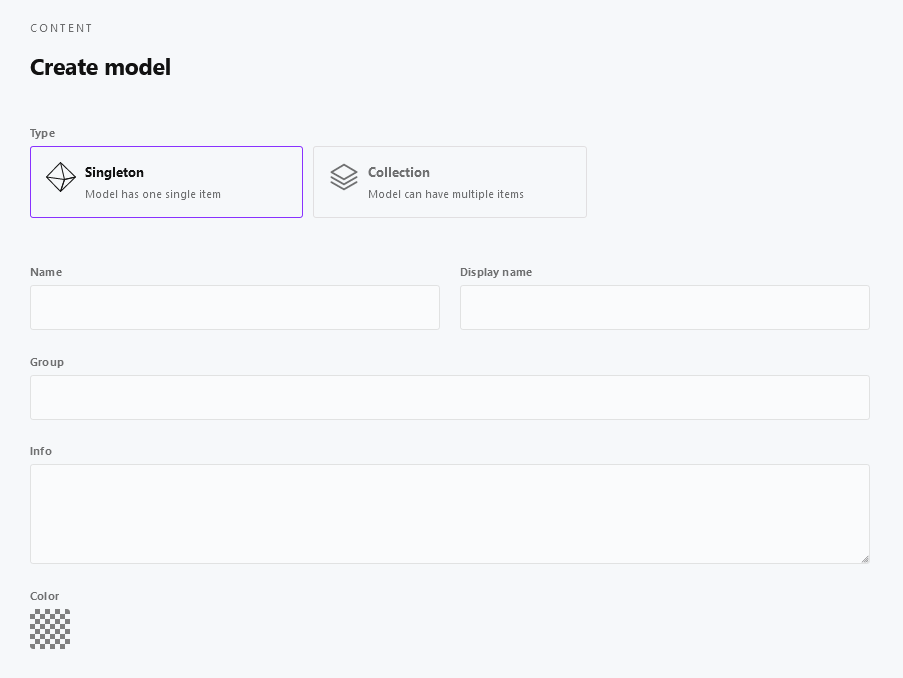
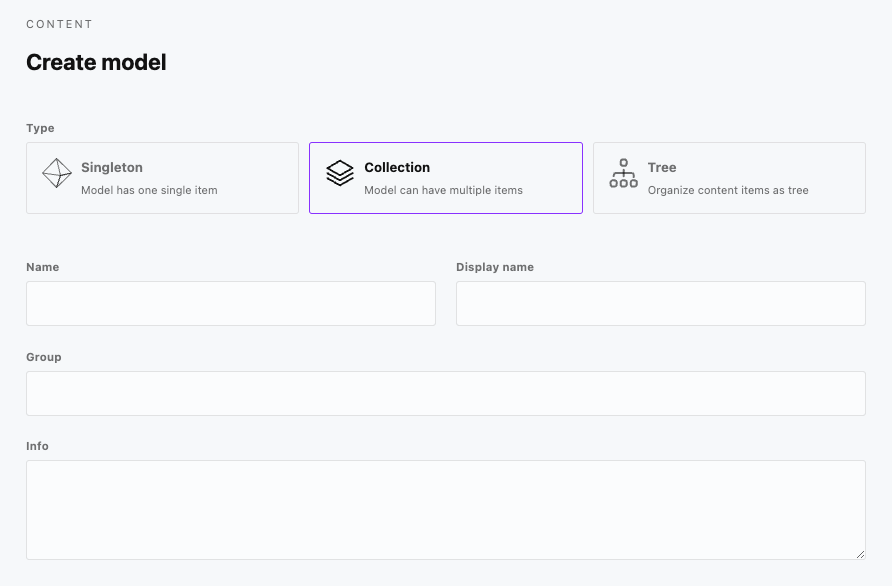
add tree content model type

diff --git a/core/concepts/content/index.md b/core/concepts/content/index.md
@@ -10,7 +10,7 @@ A content model consists of the fields you define, with each field belonging to 
 
 ![Screenshot of the form for creating a content model](./create-content-model.png)
 
-## Collections
+## Collection
 
 ### The basics
 
@@ -50,11 +50,17 @@ The following sections describes how collections work by example. Other examples
     * continue to add items by starting at 1. again
     * or stop here and use your content
 
-## Singletons
+## Singleton
 
 For *Singletons* we keep the documentation rather short because basically a singleton works the same way the [Collection](#collections) content model does.
 
 The one and only major difference is, that for a singleton content model only one item exists. You would use a singleton whenever creating multiple items of the content model does not make sense at all.
+
+## Tree
+
+Content models of the type *tree* allows you to manage your content in a so called tree structure or in a parent / child model. This is usefull if you want to manage e.g. nested categories or implement anything that involves a need for a hirarchy for content items.
+
+![Screenshot of content items organized in a tree](./tree-content-model.png)
 
 ## Further reading
 
